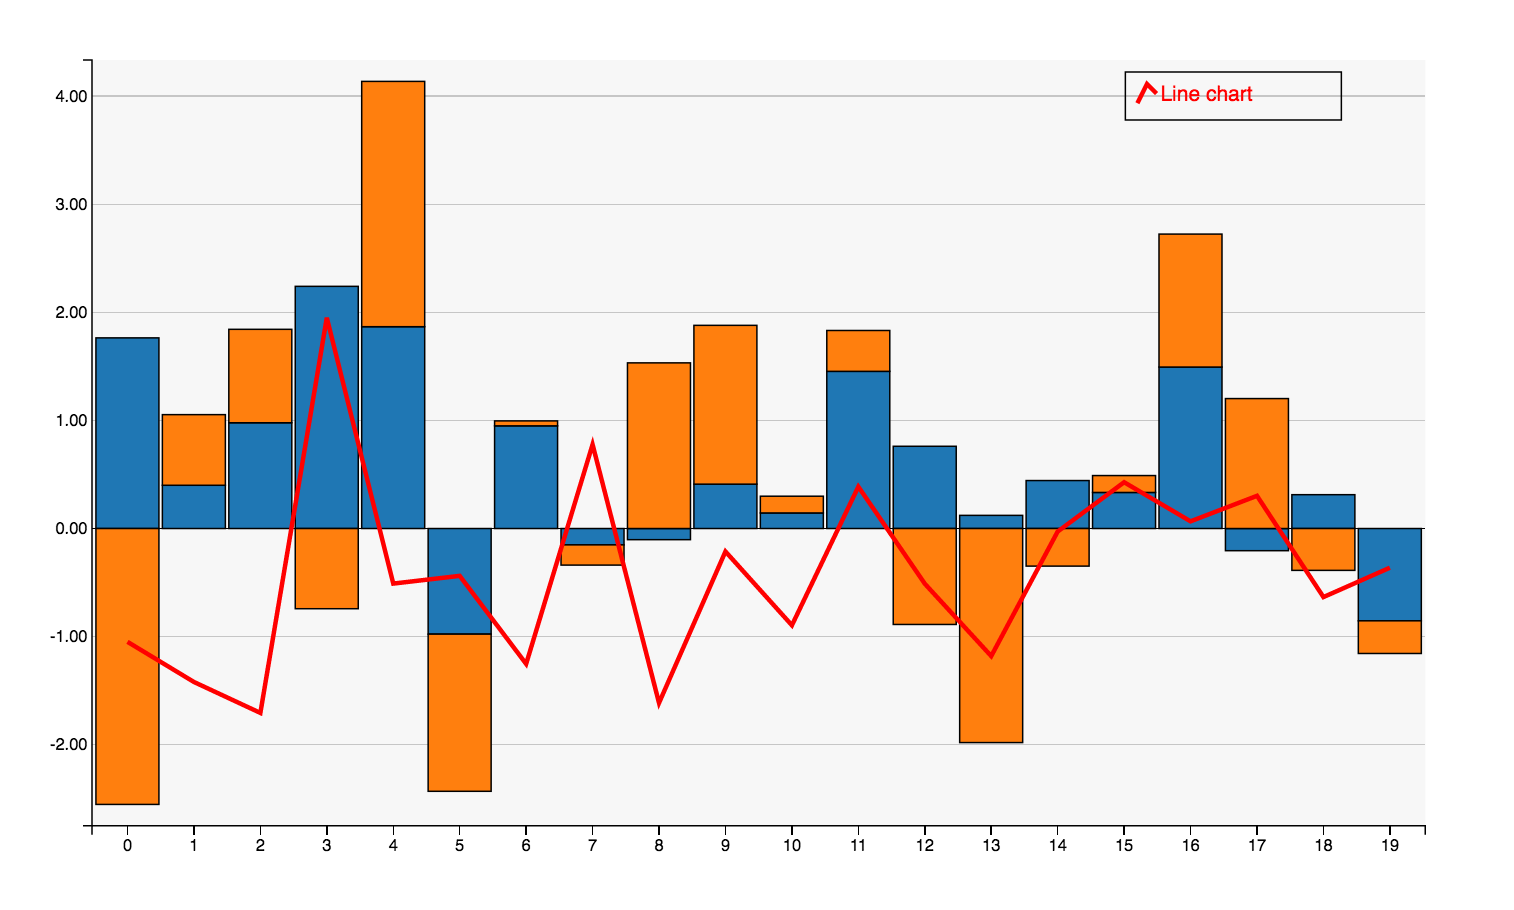
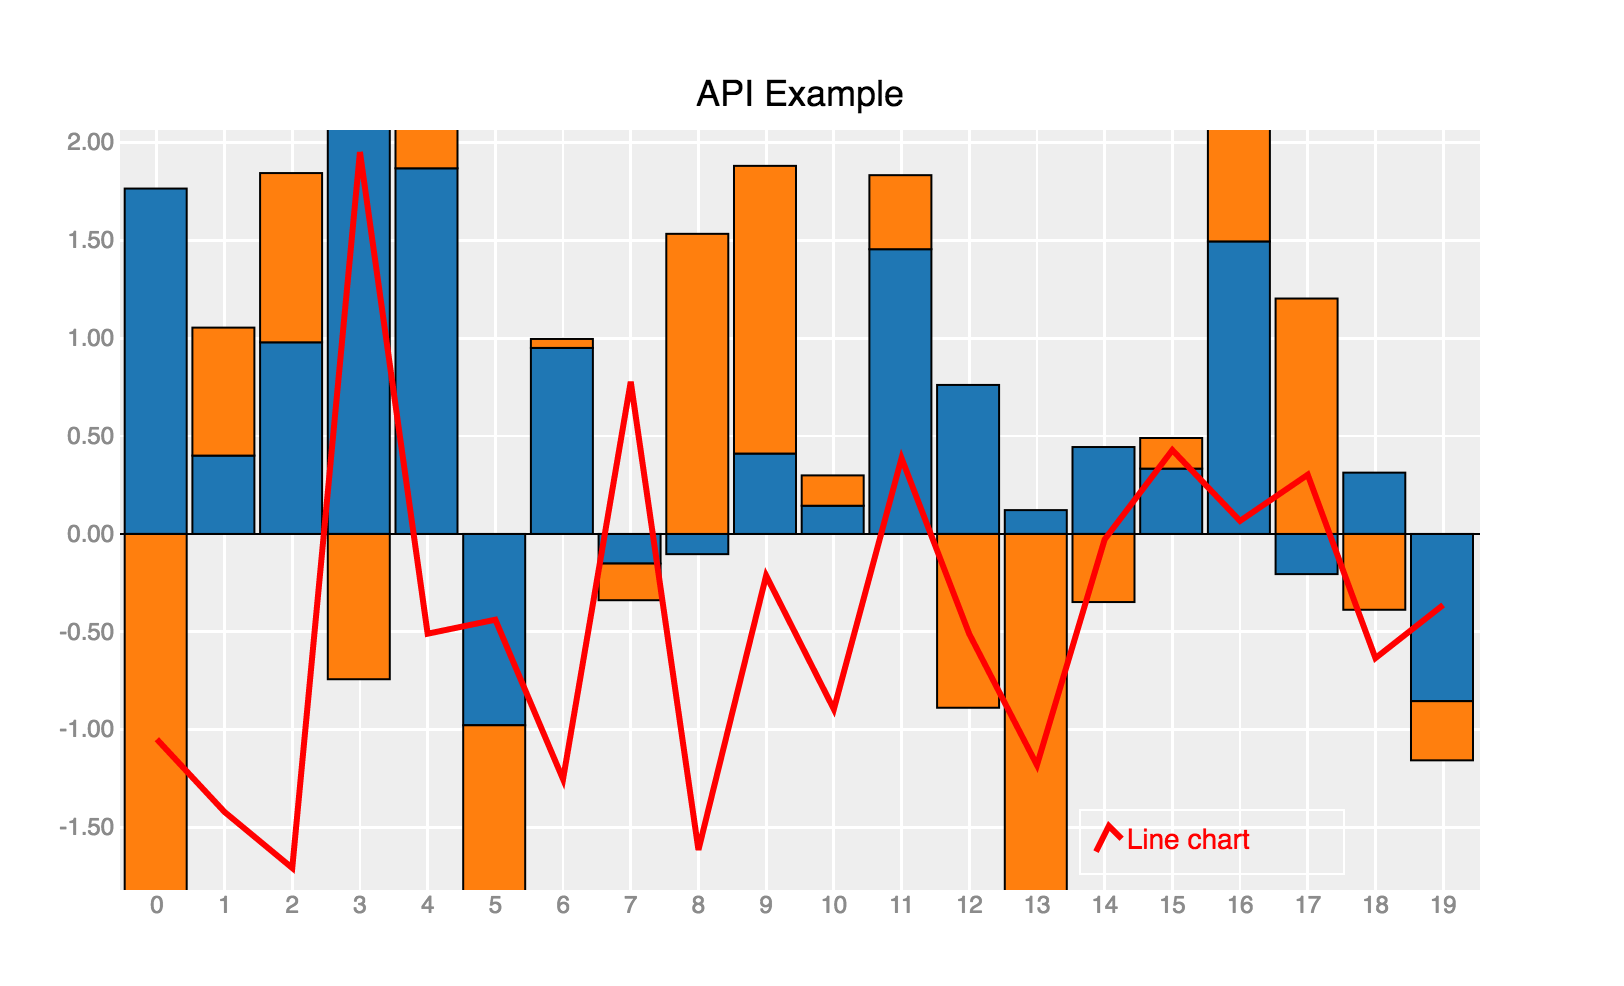
Update screenshots and screencast

diff --git a/README.md b/README.md
@@ -77,12 +77,12 @@ Examples
 from bqplot import pyplot as plt
 import numpy as np
 
-plt.figure(1)
+plt.figure(1, title='Line Chart')
 np.random.seed(0)
 n = 200
 x = np.linspace(0.0, 10.0, n)
 y = np.cumsum(np.random.randn(n))
-plt.plot(x,y, axes_options={'y': {'grid_lines': 'dashed'}})
+plt.plot(x, y)
 plt.show()
 ```
 
@@ -94,8 +94,9 @@ plt.show()
 ```python
 import numpy as np
 from IPython.display import display
-from bqplot import (OrdinalScale, LinearScale, Bars,
-                    Lines, Axis, Figure)
+from bqplot import (
+    OrdinalScale, LinearScale, Bars, Lines, Axis, Figure
+)
 
 size = 20
 np.random.seed(0)
@@ -105,15 +106,18 @@ x_data = np.arange(size)
 x_ord = OrdinalScale()
 y_sc = LinearScale()
 
-bar = Bars(x=x_data, y=np.random.randn(2, size), scales={'x': x_ord, 'y': y_sc},
-              type='stacked')
+bar = Bars(x=x_data, y=np.random.randn(2, size), scales={'x': x_ord, 'y':
+y_sc},
+           type='stacked')
 line = Lines(x=x_data, y=np.random.randn(size), scales={'x': x_ord, 'y': y_sc},
-                stroke_width=3, colors=['red'], display_legend=True, labels=['Line chart'])
+             stroke_width=3, colors=['red'], display_legend=True, labels=['Line
+chart'])
 
 ax_x = Axis(scale=x_ord)
-ax_y = Axis(scale=y_sc, orientation='vertical', tick_format='0.2f', grid_lines='solid')
+ax_y = Axis(scale=y_sc, orientation='vertical', tick_format='0.2f')
 
-fig = Figure(marks=[bar, line], axes=[ax_x, ax_y], title='API Example')
+fig = Figure(marks=[bar, line], axes=[ax_x, ax_y], title='API Example',
+             legend_location='bottom-right')
 display(fig)
 ```
 
